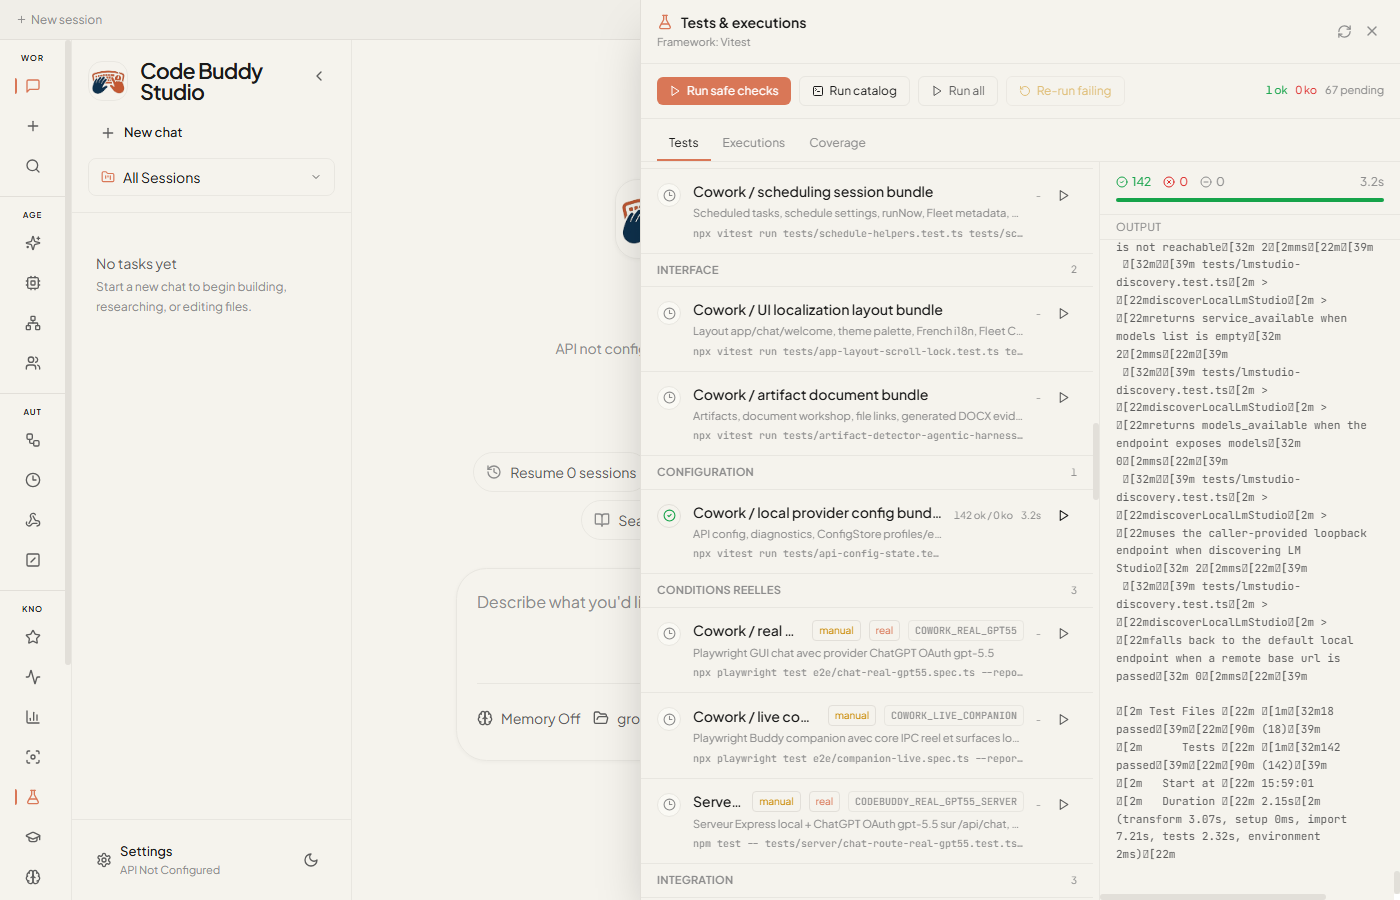
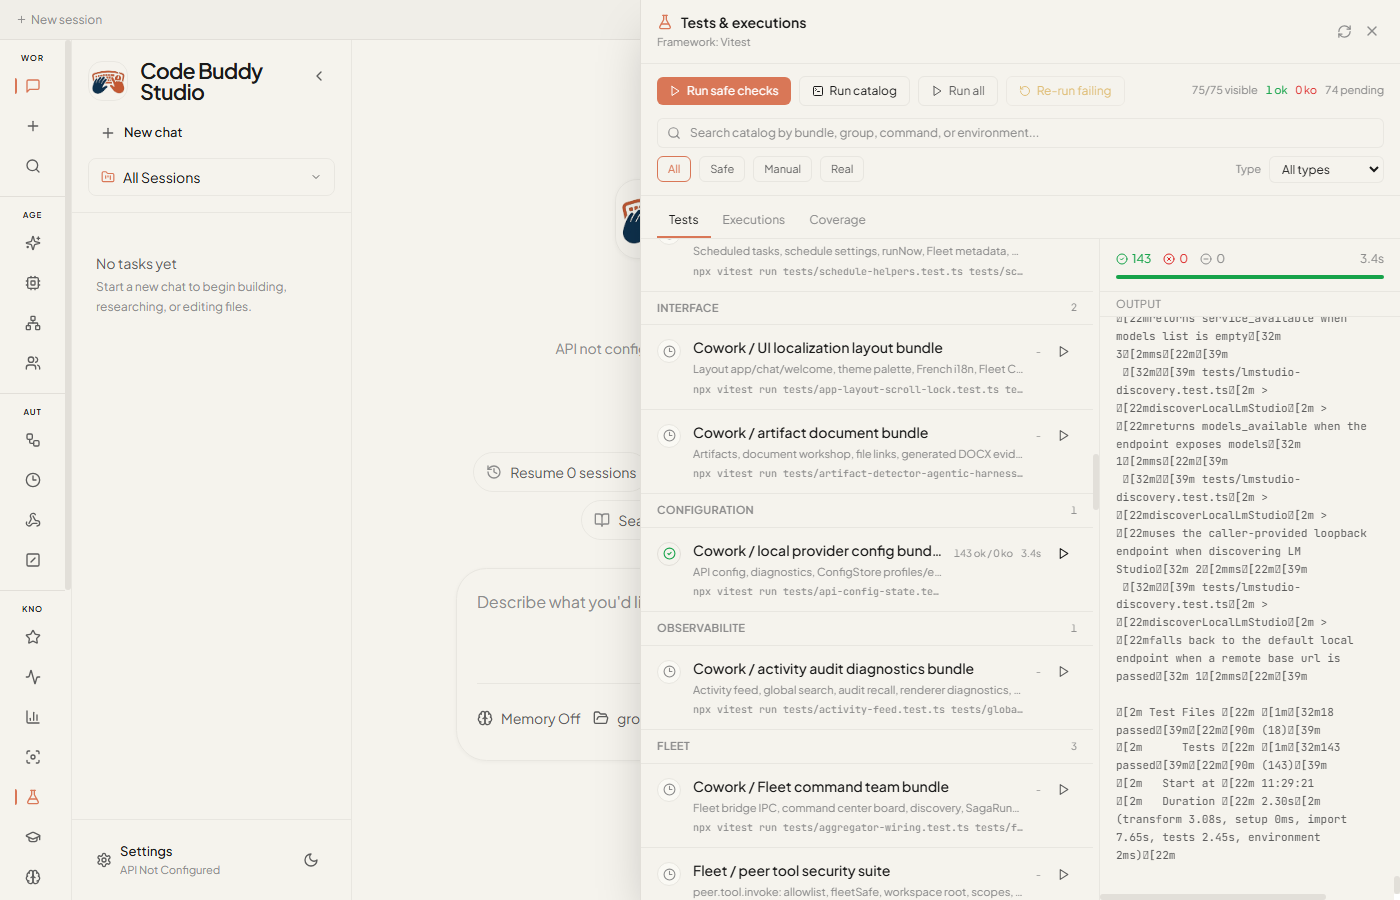
fix(test): keep Cowork local provider proof current
The real Cowork Test Runner now reports 143 passing tests for the local provider config bundle, while the E2E proof and QA handoff still expected 142. The product path was green; the stale assertion made the UI evidence fail.

Constraint: Cowork E2E proofs assert the rendered Test Runner summary text.
Rejected: Loosen the assertion to a regex | exact counts catch catalog drift in UI evidence.
Confidence: high
Scope-risk: narrow
Directive: Update the E2E proof count whenever the underlying local-provider bundle gains tests.
Tested: cd cowork && npx vitest run tests/api-config-state.test.ts tests/api-config-state-config-sets.test.ts tests/api-diagnostics.test.ts tests/auth-utils.test.ts tests/config-store-config-sets.test.ts tests/config-store-env.test.ts tests/config-store-performance.test.ts tests/config-store-profiles.test.ts tests/config-test-routing.test.ts tests/settings-api-local-providers.test.ts tests/lmstudio-api.test.ts tests/lmstudio-discovery.test.ts tests/ollama-api.test.ts tests/ollama-base-url.test.ts tests/ollama-discovery.test.ts tests/loopback-url.test.ts tests/retry.test.ts tests/use-ipc-config-modal-gate.test.ts --reporter=verbose
Tested: cd cowork && npx playwright test e2e/test-runner-local-provider-config-bundle.spec.ts --reporter=list --timeout=260000
Tested: npm run typecheck
Tested: cd cowork && npm run typecheck
Tested: npm run lint (0 errors, existing warnings)
Tested: cd cowork && npm run lint (0 errors, existing warnings)
[…]

diff --git a/cowork/e2e/test-runner-local-provider-config-bundle.spec.ts b/cowork/e2e/test-runner-local-provider-config-bundle.spec.ts
@@ -42,7 +42,7 @@ test('runs the Cowork local provider config bundle from the test runner window',
     { timeout: 190_000 }
   );
   await expect(appPage.getByTestId(`test-catalog-result-${bundleId}`)).toHaveText(
-    '142 ok / 0 ko',
+    '143 ok / 0 ko',
     { timeout: 190_000 }
   );
 

diff --git a/docs/qa/code-buddy-studio/overnight-qa-campaign.md b/docs/qa/code-buddy-studio/overnight-qa-campaign.md
@@ -57,7 +57,7 @@ Les donnees sont volontairement reconnaissables pour prouver que le test a bien 
 | UI/localisation/layout Cowork depuis Test Runner | ligne `Cowork / UI localization layout bundle`, layout app/chat/welcome/message/config, theme sombre, i18n francais, Fleet Command Center translations, settings, links/markdown | le panneau lance les 20 fichiers Cowork UI/i18n/layout et affiche `95 ok / 0 ko`. |
 | Artefacts/documents Cowork depuis Test Runner | ligne `Cowork / artifact document bundle`, artefacts, document workshop, liens/fichiers, preuves DOCX, sorties d'outils et etats MessageCard | le panneau lance les 15 fichiers artefacts/documents Cowork et affiche `125 ok / 0 ko`. |
 | Scheduling/session Cowork depuis Test Runner | ligne `Cowork / scheduling session bundle`, scheduled tasks, settings schedule, runNow, Fleet metadata, slash `/schedule` et titres de session | le panneau lance les 14 fichiers scheduling/session Cowork et affiche `90 ok / 0 ko`. |
-| Config/providers locaux Cowork depuis Test Runner | ligne `Cowork / local provider config bundle`, API config, diagnostics, ConfigStore profiles/env, Ollama, LM Studio, loopback gateways, retry, modal config | le panneau lance les 18 fichiers config/providers locaux Cowork et affiche `142 ok / 0 ko`. |
+| Config/providers locaux Cowork depuis Test Runner | ligne `Cowork / local provider config bundle`, API config, diagnostics, ConfigStore profiles/env, Ollama, LM Studio, loopback gateways, retry, modal config | le panneau lance les 18 fichiers config/providers locaux Cowork et affiche `143 ok / 0 ko`. |
 | Activite/audit/diagnostics Cowork depuis Test Runner | ligne `Cowork / activity audit diagnostics bundle`, activity feed, global search, audit recall, diagnostics renderer, preview service, event mapping, recent files | le panneau lance les 11 fichiers activite/audit/diagnostics Cowork et affiche `67 ok / 0 ko`. |
 | Fleet command/team Cowork depuis Test Runner | ligne `Cowork / Fleet command team bundle`, FleetBridge, IPC dispatch, command center board, discovery YAML, SagaRunner, outcomes/scheduled work, TeamBridge | le panneau lance les 10 fichiers Fleet/Team Cowork et affiche `61 ok / 0 ko`. |
 | Permissions/path rules Cowork depuis Test Runner | ligne `Cowork / permission path rules bundle`, PermissionDialog computer-use, quick rules, classification/preview/target rules, fallback declaratif, path containment, UNC | le panneau lance les 12 fichiers permissions/path rules Cowork et affiche `58 ok / 0 ko`. |
@@ -117,7 +117,7 @@ Les donnees sont volontairement reconnaissables pour prouver que le test a bien 
 | `npx playwright test e2e/test-runner-ui-localization-layout-bundle.spec.ts --reporter=list --timeout=240000` | 1/1 OK | Ligne `Cowork / UI localization layout bundle` lancee depuis la fenetre de tests, resultat `95 ok / 0 ko`, capture 98. |
 | `npx playwright test e2e/test-runner-artifact-document-bundle.spec.ts --reporter=list --timeout=240000` | 1/1 OK | Ligne `Cowork / artifact document bundle` lancee depuis la fenetre de tests, resultat `125 ok / 0 ko`, capture 99. |
 | `npx playwright test e2e/test-runner-scheduling-session-bundle.spec.ts --reporter=list --timeout=240000` | 1/1 OK | Ligne `Cowork / scheduling session bundle` lancee depuis la fenetre de tests, resultat `90 ok / 0 ko`, capture 100. |
-| `npx playwright test e2e/test-runner-local-provider-config-bundle.spec.ts --reporter=list --timeout=260000` | 1/1 OK | Ligne `Cowork / local provider config bundle` lancee depuis la fenetre de tests, resultat `142 ok / 0 ko`, capture 101. |
+| `npx playwright test e2e/test-runner-local-provider-config-bundle.spec.ts --reporter=list --timeout=260000` | 1/1 OK | Ligne `Cowork / local provider config bundle` lancee depuis la fenetre de tests, resultat `143 ok / 0 ko`, capture 101. |
 | `npx playwright test e2e/test-runner-activity-audit-diagnostics-bundle.spec.ts --reporter=list --timeout=260000` | 1/1 OK | Ligne `Cowork / activity audit diagnostics bundle` lancee depuis la fenetre de tests, resultat `67 ok / 0 ko`, capture 102. |
 | `npx playwright test e2e/test-runner-fleet-command-team-bundle.spec.ts --reporter=list --timeout=260000` | 1/1 OK | Ligne `Cowork / Fleet command team bundle` lancee depuis la fenetre de tests, resultat `61 ok / 0 ko`, capture 103. |
 | `npx playwright test e2e/test-runner-permission-path-rules-bundle.spec.ts --reporter=list --timeout=260000` | 1/1 OK | Ligne `Cowork / permission path rules bundle` lancee depuis la fenetre de tests, resultat `58 ok / 0 ko`, capture 104. |
@@ -791,7 +791,7 @@ Capture :
 
 ### Bundle config/providers locaux Cowork depuis le runner
 
-J'ai ajoute [`cowork/e2e/test-runner-local-provider-config-bundle.spec.ts`](../../../cowork/e2e/test-runner-local-provider-config-bundle.spec.ts). Le test ouvre la vraie fenetre `Tests & executions`, clique la ligne `Cowork / local provider config bundle`, puis attend `passed` et `142 ok / 0 ko`.
+J'ai ajoute [`cowork/e2e/test-runner-local-provider-config-bundle.spec.ts`](../../../cowork/e2e/test-runner-local-provider-config-bundle.spec.ts). Le test ouvre la vraie fenetre `Tests & executions`, clique la ligne `Cowork / local provider config bundle`, puis attend `passed` et `143 ok / 0 ko`.
 
 Ce parcours valide :
 
@@ -803,12 +803,12 @@ Ce parcours valide :
 
 Preuves commandes :
 
-- `npx vitest run tests/api-config-state.test.ts tests/api-config-state-config-sets.test.ts tests/api-diagnostics.test.ts tests/auth-utils.test.ts tests/config-store-config-sets.test.ts tests/config-store-env.test.ts tests/config-store-performance.test.ts tests/config-store-profiles.test.ts tests/config-test-routing.test.ts tests/settings-api-local-providers.test.ts tests/lmstudio-api.test.ts tests/lmstudio-discovery.test.ts tests/ollama-api.test.ts tests/ollama-base-url.test.ts tests/ollama-discovery.test.ts tests/loopback-url.test.ts tests/retry.test.ts tests/use-ipc-config-modal-gate.test.ts --reporter=verbose` -> 18 fichiers OK, 142 tests OK.
+- `npx vitest run tests/api-config-state.test.ts tests/api-config-state-config-sets.test.ts tests/api-diagnostics.test.ts tests/auth-utils.test.ts tests/config-store-config-sets.test.ts tests/config-store-env.test.ts tests/config-store-performance.test.ts tests/config-store-profiles.test.ts tests/config-test-routing.test.ts tests/settings-api-local-providers.test.ts tests/lmstudio-api.test.ts tests/lmstudio-discovery.test.ts tests/ollama-api.test.ts tests/ollama-base-url.test.ts tests/ollama-discovery.test.ts tests/loopback-url.test.ts tests/retry.test.ts tests/use-ipc-config-modal-gate.test.ts --reporter=verbose` -> 18 fichiers OK, 143 tests OK.
 - `npx vitest run tests/test-runner-bridge-catalog.test.ts --reporter=verbose` -> 7 tests OK avec la ligne config/providers locaux.
 - `npm run typecheck` dans `cowork/` -> OK.
 - `npm run typecheck` racine -> OK.
 - `npm run build:e2e` -> OK.
-- `npx playwright test e2e/test-runner-local-provider-config-bundle.spec.ts --reporter=list --timeout=260000` -> 1 test OK depuis la fenetre `Tests & executions`, avec `142 ok / 0 ko`.
+- `npx playwright test e2e/test-runner-local-provider-config-bundle.spec.ts --reporter=list --timeout=260000` -> 1 test OK depuis la fenetre `Tests & executions`, avec `143 ok / 0 ko`.
 
 Capture :
 

diff --git a/docs/qa/code-buddy-studio/feature-qa.md b/docs/qa/code-buddy-studio/feature-qa.md
@@ -36,7 +36,7 @@ Verification complementaire :
 - Bundle UI/localisation/layout Cowork depuis le runner : `npx vitest run tests/app-layout-scroll-lock.test.ts tests/app-startup-lazy-load.test.ts tests/dark-theme-palette.test.ts tests/i18n-french-support.test.ts tests/welcome-view-claude-layout.test.ts tests/welcome-view-submit-guard.test.ts tests/chat-view-claude-layout.test.ts tests/chat-view-width-layout.test.ts tests/message-card-claude-layout.test.ts tests/message-card-file-attachment-layout.test.ts tests/config-modal-claude-layout.test.ts tests/focus-view-surface.test.ts tests/fleet-team-panel-browser-bridge.test.ts tests/settings-surface-tabs.test.ts tests/settings-panel-plugin-entry.test.ts tests/settings-panel-schedule-entry.test.ts tests/provider-guidance-ui.test.ts tests/prose-chat-list-style.test.ts tests/latex-delimiters.test.ts tests/markdown-local-link.test.ts --reporter=verbose` OK (20 fichiers, 95 tests), `npx playwright test e2e/test-runner-ui-localization-layout-bundle.spec.ts --reporter=list --timeout=240000` OK. La ligne `Cowork / UI localization layout bundle` lance depuis l'UI layout app/chat/welcome, palette sombre, i18n francais, traductions Fleet Command Center, settings/plugin/schedule, focus view, liens locaux, LaTeX et rendu markdown avec `95 ok / 0 ko`. Capture `98-test-runner-ui-localization-layout-bundle.png`.
 - Bundle artefacts/documents Cowork depuis le runner : `npx vitest run tests/artifact-detector-agentic-harness.test.ts tests/artifact-icon.test.ts tests/artifact-parser.test.ts tests/artifact-path.test.ts tests/artifact-steps.test.ts tests/file-preview-agentic-harness.test.ts tests/chat-view-document-workshop.test.ts tests/document-workshop-flow.test.ts tests/document-workshop-progress.test.ts tests/file-link.test.ts tests/tool-output-path.test.ts tests/tool-result-summary.test.ts tests/message-card-link-handling.test.ts tests/message-card-citation-link-normalization.test.ts tests/message-card-ask-user-question-state.test.ts --reporter=verbose` OK (15 fichiers, 125 tests), `npx playwright test e2e/test-runner-artifact-document-bundle.spec.ts --reporter=list --timeout=240000` OK. La ligne `Cowork / artifact document bundle` lance depuis l'UI artefacts, document workshop, liens/fichiers, preuves DOCX, sorties d'outils et etats MessageCard avec `125 ok / 0 ko`. Capture `99-test-runner-artifact-document-bundle.png`.
 - Bundle scheduling/session Cowork depuis le runner : `npx vitest run tests/schedule-helpers.test.ts tests/schedule-task-title.test.ts tests/scheduled-task-edge-cases.test.ts tests/scheduled-task-manager.test.ts tests/scheduled-task-session-title-entry.test.ts tests/scheduled-task-store.test.ts tests/session-manager-scheduled-title.test.ts tests/session-title-defaults.test.ts tests/session-title-flow-abort.test.ts tests/session-title-flow.test.ts tests/session-title-utils.test.ts tests/session-update-event.test.ts tests/slash-command-bridge-schedule.test.ts tests/settings-panel-schedule-entry.test.ts --reporter=verbose` OK (14 fichiers, 90 tests), `npx playwright test e2e/test-runner-scheduling-session-bundle.spec.ts --reporter=list --timeout=240000` OK. La ligne `Cowork / scheduling session bundle` lance depuis l'UI scheduled tasks, settings schedule, runNow, metadata Fleet, slash `/schedule` et generation de titres de session avec `90 ok / 0 ko`. Capture `100-test-runner-scheduling-session-bundle.png`.
-- Bundle config/providers locaux Cowork depuis le runner : `npx vitest run tests/api-config-state.test.ts tests/api-config-state-config-sets.test.ts tests/api-diagnostics.test.ts tests/auth-utils.test.ts tests/config-store-config-sets.test.ts tests/config-store-env.test.ts tests/config-store-performance.test.ts tests/config-store-profiles.test.ts tests/config-test-routing.test.ts tests/settings-api-local-providers.test.ts tests/lmstudio-api.test.ts tests/lmstudio-discovery.test.ts tests/ollama-api.test.ts tests/ollama-base-url.test.ts tests/ollama-discovery.test.ts tests/loopback-url.test.ts tests/retry.test.ts tests/use-ipc-config-modal-gate.test.ts --reporter=verbose` OK (18 fichiers, 142 tests), `npx playwright test e2e/test-runner-local-provider-config-bundle.spec.ts --reporter=list --timeout=260000` OK. La ligne `Cowork / local provider config bundle` lance depuis l'UI API config, diagnostics, ConfigStore profiles/env/config sets, Ollama, LM Studio, loopback gateways, retry et gating du modal config avec `142 ok / 0 ko`. Capture `101-test-runner-local-provider-config-bundle.png`.
+- Bundle config/providers locaux Cowork depuis le runner : `npx vitest run tests/api-config-state.test.ts tests/api-config-state-config-sets.test.ts tests/api-diagnostics.test.ts tests/auth-utils.test.ts tests/config-store-config-sets.test.ts tests/config-store-env.test.ts tests/config-store-performance.test.ts tests/config-store-profiles.test.ts tests/config-test-routing.test.ts tests/settings-api-local-providers.test.ts tests/lmstudio-api.test.ts tests/lmstudio-discovery.test.ts tests/ollama-api.test.ts tests/ollama-base-url.test.ts tests/ollama-discovery.test.ts tests/loopback-url.test.ts tests/retry.test.ts tests/use-ipc-config-modal-gate.test.ts --reporter=verbose` OK (18 fichiers, 143 tests), `npx playwright test e2e/test-runner-local-provider-config-bundle.spec.ts --reporter=list --timeout=260000` OK. La ligne `Cowork / local provider config bundle` lance depuis l'UI API config, diagnostics, ConfigStore profiles/env/config sets, Ollama, LM Studio, loopback gateways, retry et gating du modal config avec `143 ok / 0 ko`. Capture `101-test-runner-local-provider-config-bundle.png`.
 - Bundle activite/audit/diagnostics Cowork depuis le runner : `npx vitest run tests/activity-feed.test.ts tests/global-search-dialog.test.ts tests/global-search-service.test.ts tests/audit-bridge.test.ts tests/audit-log-viewer.test.ts tests/diagnostics-summary.test.ts tests/renderer-diagnostics.test.ts tests/client-event-utils.test.ts tests/runner-event-mapping.test.ts tests/preview-service.test.ts tests/context-panel-recent-files.test.ts --reporter=verbose` OK (11 fichiers, 67 tests), `npx playwright test e2e/test-runner-activity-audit-diagnostics-bundle.spec.ts --reporter=list --timeout=260000` OK. La ligne `Cowork / activity audit diagnostics bundle` lance depuis l'UI activity feed, global search, audit recall, diagnostics renderer, preview service, event mapping et recent files avec `67 ok / 0 ko`. Capture `102-test-runner-activity-audit-diagnostics-bundle.png`.
 - Bundle Fleet command/team Cowork depuis le runner : `npx vitest run tests/aggregator-wiring.test.ts tests/fleet-bridge.test.ts tests/fleet-command-center-board.test.ts tests/fleet-discovery.test.ts tests/fleet-internet-proof-metadata.test.ts tests/fleet-ipc.test.ts tests/fleet-outcome-panel.test.ts tests/fleet-scheduled-work-strip.test.ts tests/saga-runner.test.ts tests/team-bridge.test.ts --reporter=verbose` OK (10 fichiers, 61 tests), `npx playwright test e2e/test-runner-fleet-command-team-bundle.spec.ts --reporter=list --timeout=260000` OK. La ligne `Cowork / Fleet command team bundle` lance depuis l'UI FleetBridge, IPC dispatch, board centre de commande, discovery YAML, SagaRunner, metadata internet proof, outcomes/scheduled work et TeamBridge avec `61 ok / 0 ko`. Capture `103-test-runner-fleet-command-team-bundle.png`.
 - Bundle permissions/path rules Cowork depuis le runner : `npx vitest run tests/declarative-rules-explain.test.ts tests/permission-dialog-computer-use.test.ts tests/permission-rule-classification.test.ts tests/permission-rule-preview.test.ts tests/permission-target-rule.test.ts tests/rules-bridge-fallback.test.ts tests/settings-permission-rules-computer-use.test.ts tests/path-containment.test.ts tests/path-guard-command-conversion.test.ts tests/path-resolver-containment.test.ts tests/tool-executor-unc-paths.test.ts --reporter=verbose` OK (12 fichiers, 58 tests), `npx playwright test e2e/test-runner-permission-path-rules-bundle.spec.ts --reporter=list --timeout=260000` OK. La ligne `Cowork / permission path rules bundle` lance depuis l'UI PermissionDialog computer-use, rules quick actions, classification/preview/target rules, fallback declaratif, path containment, UNC et conversion de chemins de commande avec `58 ok / 0 ko`. Capture `104-test-runner-permission-path-rules-bundle.png`.
@@ -340,7 +340,7 @@ Preuve bundle scheduling/session depuis l'UI : le test E2E clique la ligne `Cowo
 
 ![Fenetre Tests & executions - bundle scheduling session](./screenshots/100-test-runner-scheduling-session-bundle.png)
 
-Preuve bundle config/providers locaux depuis l'UI : le test E2E clique la ligne `Cowork / local provider config bundle`, qui lance API config state/config sets, diagnostics TLS/SNI/model probe/local discovery, auth utils, ConfigStore env/profiles/performance, routing de test config, cartes Ollama/LM Studio, helpers API/discovery, loopback URLs, retry et gating du modal config. Le paquet traverse 18 fichiers et 142 tests, puis le panneau parent affiche `passed` et `142 ok / 0 ko`.
+Preuve bundle config/providers locaux depuis l'UI : le test E2E clique la ligne `Cowork / local provider config bundle`, qui lance API config state/config sets, diagnostics TLS/SNI/model probe/local discovery, auth utils, ConfigStore env/profiles/performance, routing de test config, cartes Ollama/LM Studio, helpers API/discovery, loopback URLs, retry et gating du modal config. Le paquet traverse 18 fichiers et 143 tests, puis le panneau parent affiche `passed` et `143 ok / 0 ko`.
 
 ![Fenetre Tests & executions - bundle config providers locaux](./screenshots/101-test-runner-local-provider-config-bundle.png)
 
@@ -524,7 +524,7 @@ Bugs importants corriges :
   - Le catalogue `Tests & executions` expose maintenant `Cowork / UI localization layout bundle`. Le test UI dedie lance layout app/chat/welcome/message/config, palette sombre, i18n francais, traductions Fleet Command Center, settings, liens locaux, LaTeX et rendu markdown, puis prouve `95 ok / 0 ko`.
   - Le catalogue `Tests & executions` expose maintenant `Cowork / artifact document bundle`. Le test UI dedie lance artefacts, document workshop, liens/fichiers, preuves DOCX, sorties d'outils et etats MessageCard, puis prouve `125 ok / 0 ko`.
   - Le catalogue `Tests & executions` expose maintenant `Cowork / scheduling session bundle`. Le test UI dedie lance planifications, `runNow`, daily/weekly multi-slot, store SQLite, slash `/schedule`, metadata Fleet et titres de session, puis prouve `90 ok / 0 ko`.
-  - Le catalogue `Tests & executions` expose maintenant `Cowork / local provider config bundle`. Le test UI dedie lance API config, diagnostics, ConfigStore, Ollama, LM Studio, loopback gateways, retry et gating modal config, puis prouve `142 ok / 0 ko`.
+  - Le catalogue `Tests & executions` expose maintenant `Cowork / local provider config bundle`. Le test UI dedie lance API config, diagnostics, ConfigStore, Ollama, LM Studio, loopback gateways, retry et gating modal config, puis prouve `143 ok / 0 ko`.
   - Le catalogue `Tests & executions` expose maintenant `Cowork / activity audit diagnostics bundle`. Le test UI dedie lance activity feed, recherche globale, audit recall, diagnostics renderer, preview service et mapping d'evenements runner, puis prouve `67 ok / 0 ko`.
   - Le catalogue `Tests & executions` expose maintenant `Cowork / Fleet command team bundle`. Le test UI dedie lance FleetBridge, dispatch IPC, command center board, SagaRunner, outcomes, scheduled work et TeamBridge, puis prouve `61 ok / 0 ko`.
   - Le catalogue `Tests & executions` expose maintenant `Cowork / permission path rules bundle`. Le test UI dedie lance permissions computer-use, derivation/classification de regles, fallback declaratif, path containment et protections UNC, puis prouve `58 ok / 0 ko`.